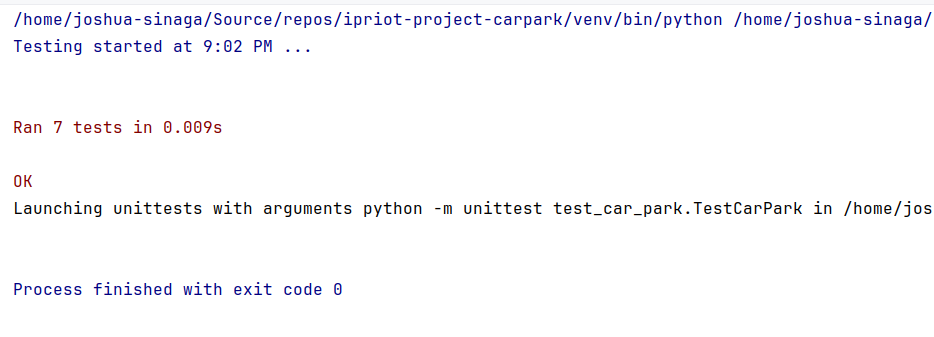
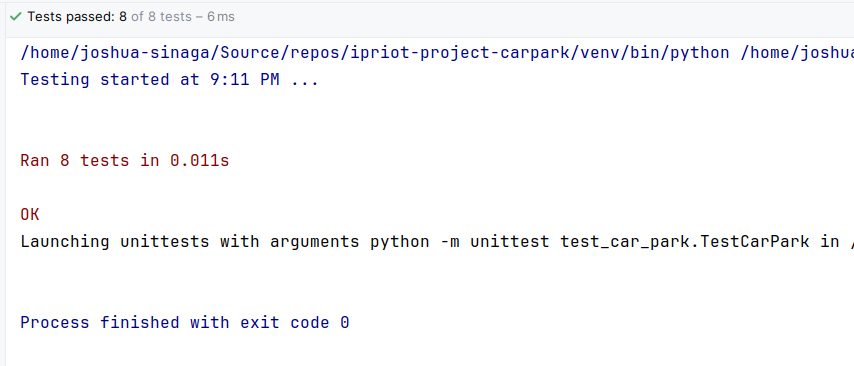
Added unit tests for logging car activity

diff --git a/tests/test_car_park.py b/tests/test_car_park.py
@@ -68,6 +68,34 @@ class TestCarPark(unittest.TestCase):
         with self.assertRaises(TypeError):
             self.car_park.register("Not a Sensor or Display")
 
+    def test_log_file_created(self):
+        new_carpark = CarPark("123 Example Street", 100, log_file="new_log.txt")
+        self.assertTrue(Path("new_log.txt").exists())
+
+    def tearDown(self):
+        Path("new_log.txt").unlink(missing_ok=True)
+
+    def test_car_logged_when_entering(self):
+        new_carpark = CarPark("123 Example Street", 100,
+                              log_file="new_log.txt")  # TODO: change this to use a class attribute or new instance variable
+        self.car_park.add_car("NEW-001")
+        with self.car_park.log_file.open() as f:
+            last_line = f.readlines()[-1]
+        self.assertIn(last_line, "NEW-001")  # check plate entered
+        self.assertIn(last_line, "entered")  # check description
+        self.assertIn(last_line, "\n")  # check entry has a new line
+
+    def test_car_logged_when_exiting(self):
+        new_carpark = CarPark("123 Example Street", 100,
+                              log_file="new_log.txt")  # TODO: change this to use a class attribute or new instance variable
+        self.car_park.add_car("NEW-001")
+        self.car_park.remove_car("NEW-001")
+        with self.car_park.log_file.open() as f:
+            last_line = f.readlines()[-1]
+        self.assertIn(last_line, "NEW-001")  # check plate entered
+        self.assertIn(last_line, "exited")  # check description
+        self.assertIn(last_line, "\n")  # check entry has a new line
+
 
 if __name__ == "__main__":
     unittest.main()

diff --git a/carpark-guide.md b/carpark-guide.md
@@ -768,7 +768,7 @@ Finally, we'll create tests for the `Sensor` class. These tests will test the `_
 
 The car park register method should accept a `Sensor` or `Display` object. It should raise a `TypeError` if the object is neither a `Sensor` nor a `Display`. Before proceeding, think about where you would test this behaviour. Should you test it in the `CarPark` unit tests or the `Sensor` unit tests? Why?
 
-> Answer here...
+> Because the register method is part of the CarPark class, so its behavior should be checked there.
 
 Create a new unit test in the `test_car_park.py` file called `test_register_raises_type_error`. This test should create a `CarPark` object and a `str` object. It should then call the `register` method on the `CarPark` object with the `str` object as a parameter. The test should assert that a `TypeError` is raised. Here is a sample implementation:
 
@@ -782,7 +782,7 @@ with self.assertRaises(TypeError):
 
 Commit your original test cases for the sensor class to the local repository. Tag the commit with `s8` so your lecturer can find it.
 
-
+![img_10.png](img_10.png)
 
 ### Additional functionality: TDD
 
